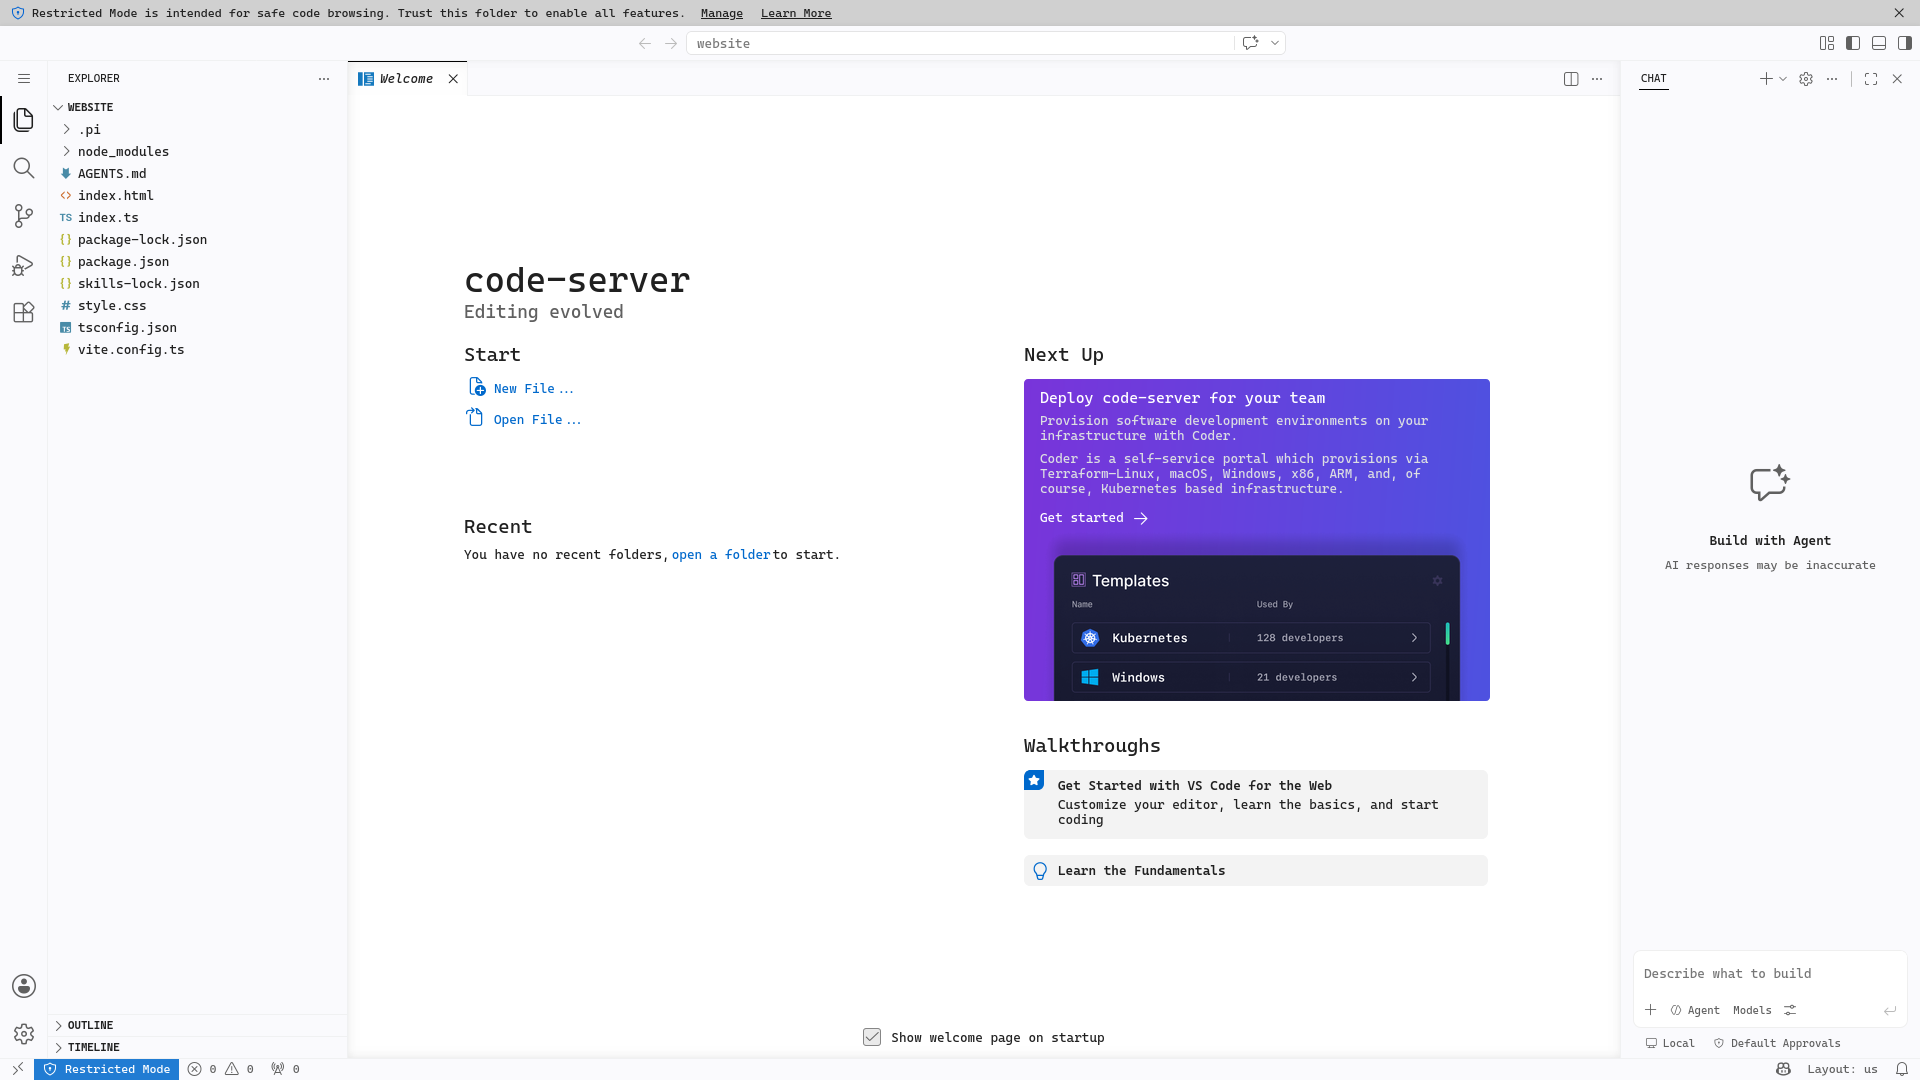
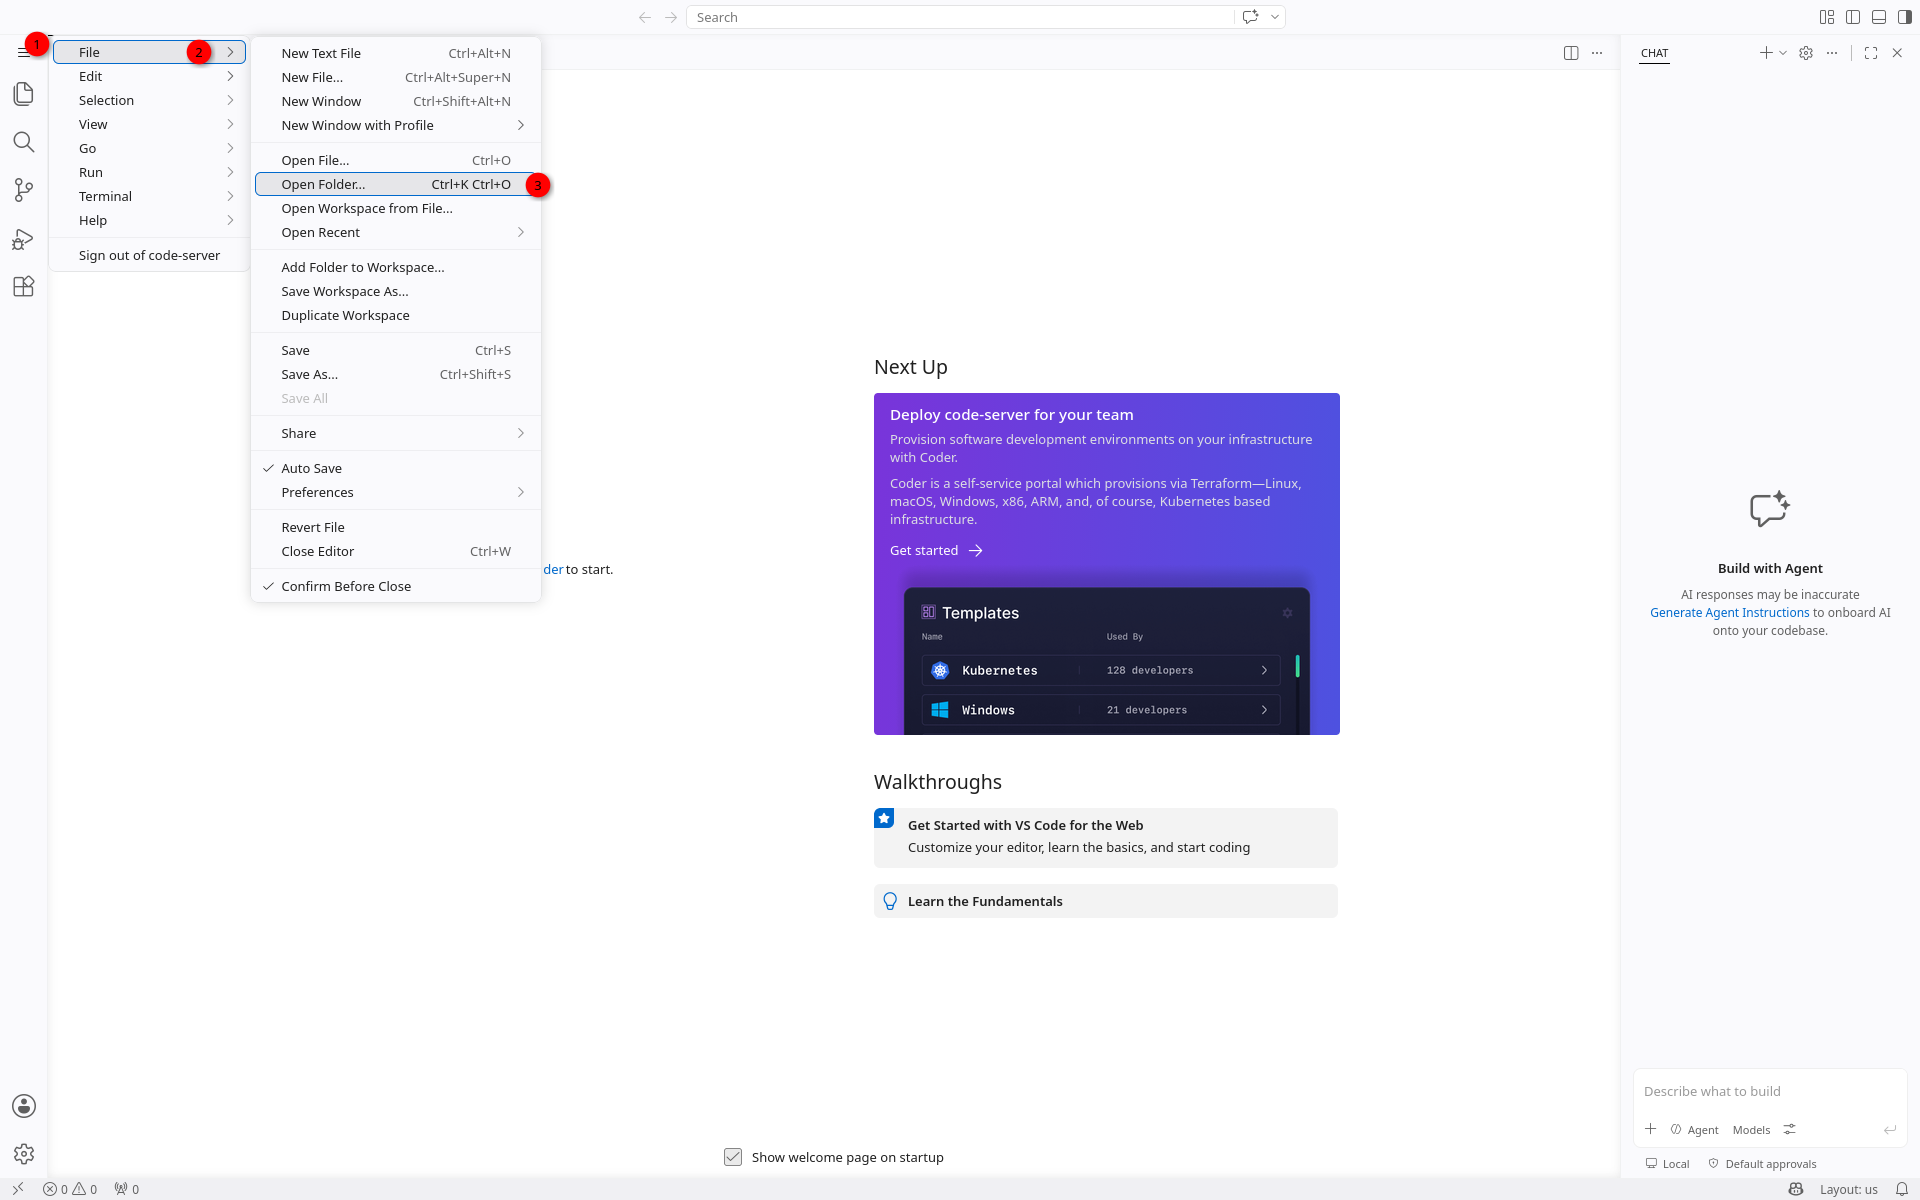
Update tutorials

diff --git a/web/src/content/tutorials/de/pi-dev.md b/web/src/content/tutorials/de/pi-dev.md
@@ -10,23 +10,24 @@ Pi bereits installiert.
 
 ## Im richtigen Projekt starten
 
-Wenn ihr auf eurem eigenen Computer arbeitet, öffnet ein Terminal im Projektordner und startet Pi:
+Wenn ihr auf eurem eigenen Computer arbeitet, öffnet ein Terminal im Projektordner und startet Pi (Alles nach `#` ist ein Kommentar und muss nicht eingegeben werden):
 
 ```sh
-cd pfad/zu/eurem-projekt
-pi
+cd pfad/zu/eurem-projekt # Change Directory - Ordner ändern - Hiermit navigiert ihr in den Ordner eures Projekts. Wenn ihr die Online-Entwicklungsumgebung nutzt, ist der Projektordner bereits geöffnet, und ihr könnt diesen Schritt überspringen.
+pi # Startet den Coding Agent pi.dev.
 ```
 
 Pi darf auf alles in diesem Ordner zugreifen. Startet ihn deshalb nicht in einem
 übergeordneten Ordner mit privaten oder fremden Dateien.
+
+Wenn ihr Pi beenden wollt, drückt `Strg`+`C`. Pi merkt sich den Gesprächskontext nur während der laufenden Sitzung. Wenn ihr Pi neu startet, beginnt es wieder mit einem leeren Kontext. Verwendet `pi resume`, um trotzdem den letzten Gesprächskontext zu laden.
 
 ## Bei bestehenden Projekten: Zuerst orientieren, dann ändern
 
 Lasst Pi vor der ersten Änderung die vorhandene `README.md`, die
 Projektstruktur und die verfügbaren Prüfbefehle untersuchen:
 
-> Lies die README und untersuche das Projekt. Erkläre mir kurz, wie es aufgebaut
-> ist und welche Befehle Änderungen prüfen. Ändere noch keine Dateien.
+> Lies die README und untersuche das Projekt. Erkläre mir kurz, wie es aufgebaut ist.
 
 Gebt danach einen überschaubaren Auftrag. Lasst Pi die Änderung selbst prüfen
 und bittet um eine kurze Zusammenfassung der betroffenen Dateien.
@@ -43,7 +44,7 @@ Wiederkehrende Regeln gehören in eine `AGENTS.md` im Projekt:
 - Halte API-Keys aus dem Repository.
 ```
 
-So müsst ihr wichtige Rahmenbedingungen nicht in jedem Prompt wiederholen.
+Ihr könnt auch Pi darum bitten, die Regeln in der `AGENTS.md` zu dokumentieren. So müsst ihr wichtige Rahmenbedingungen nicht in jedem Prompt wiederholen.
 
 ## Hackathon-Skills installieren
 
@@ -64,19 +65,9 @@ npx skills@latest add BenjaminDerProgrammierer/ars-26-hackathon \
 
 `npx` lädt das aktuelle `skills`-Werkzeug bei Bedarf automatisch. Der Befehl
 installiert die Skills nur für dieses Projekt unter `.pi/skills/` und legt eine
-`skills-lock.json` an. Ihr braucht dafür Node.js, `npm`, Git und Internetzugang;
-in der bereitgestellten Online-Entwicklungsumgebung ist alles vorhanden. Die
-Installation enthält Programme und Anweisungen, die der Agent ausführen darf.
-Installiert daher nur Skills aus Quellen, denen ihr vertraut.
+`skills-lock.json` an. Die Installation enthält Programme und Anweisungen, die der Agent ausführen darf.
 
-Prüft anschließend die Installation:
-
-```sh
-npx skills@latest list --agent pi
-```
-
-In der Ausgabe müssen `ars-dataset` und `hackathon-datasets` stehen. Startet Pi
-danach neu, damit es die neuen Skills sicher erkennt:
+Startet Pi danach neu, damit es die neuen Skills sicher erkennt:
 
 ```sh
 pi
@@ -146,3 +137,8 @@ des Exports den Leerzustand.
 
 Pi kann Arbeit beschleunigen, aber nicht entscheiden, ob eure Daten,
 Sicherheitsannahmen und Projektergebnisse korrekt sind. Prüft eure Demo selbst.
+
+## Als nächstes: Vibe Coding und Prompts
+
+Als nächstes lernt ihr, wie ihr eure Ideen in überprüfbare Schritte zerlegt und
+einen Coding Agent sinnvoll anleitet. Lest dazu das Tutorial „Vibe Coding und Prompts“.

diff --git a/web/src/content/tutorials/de/online-development-environment.md b/web/src/content/tutorials/de/online-development-environment.md
@@ -25,32 +25,43 @@ Ruft den Link bei „Code Server“ im Browser auf und gebt das Passwort ein.
 
 ## Schritt 2: Entwicklungsumgebung einrichten
 
-![Entwicklungsumgebung; untrusted](../assets/online-development-environment-2.png)
+Jetzt müsst ihr den Ordner öffnen, in dem ihr arbeiten wollt. Klickt dazu auf Drei Striche → File → Open Folder und wählt den Ordner `website` aus.
+
+![Entwicklungsumgebung; open file](../assets/online-development-environment-2.png)
+
+![Open File; ~](../assets/online-development-environment-3.png)
+
+![Open FIle; ~/website](../assets/online-development-environment-4.png)
 
 Als Nächstes müsst ihr dem offenen Ordner vertrauen. Klickt oben auf „Manage“
 und dann auf „Trust“.
 
-![Workspace Trust window](../assets/online-development-environment-3.png)
-
-![Entwicklungsumgebung; trusted](../assets/online-development-environment-4.png)
+![Workspace Trust window](../assets/online-development-environment-5.png)
 
 Öffnet nun über das horizontal geteilte Rechteck oben rechts ein Terminal.
 
+![Workspace Trust window](../assets/online-development-environment-6.png)
+
 Gebt `npm run dev` ein, um den Entwicklungsserver zu starten.
 
-![Terminal mit laufendem Entwicklungsserver](../assets/online-development-environment-5.png)
+![Terminal; npm run dev](../assets/online-development-environment-7.png)
 
 Öffnet den Link bei „Dev server“ aus euren Zugangsdaten, um die Webseite zu
 sehen, an der ihr gerade arbeitet.
 
-![Startseite der Webseite](../assets/online-development-environment-6.png)
+![Startseite der Webseite](../assets/online-development-environment-8.png)
 
 Öffnet über das Plus-Zeichen ein zweites Terminal, gebt `pi` ein und bestätigt,
 dass pi.dev auf den geöffneten Projektordner zugreifen darf.
 
-![Coding-Agent pi.dev](../assets/online-development-environment-7.png)
+![Coding-Agent pi.dev; Trust](../assets/online-development-environment-9.png)
+
+Fragt zum Beispiel nach, was die Dateien im Ordner `website` machen, und ihr bekommt eine Antwort von pi.dev.
+
+> Erkläre die Dateien in diesem Ordner.
+
+![Coding-Agent pi.dev; Erste Antwort](../assets/online-development-environment-10.png)
 
 ## Weitere Schritte
 
-Wie ihr den Agent sinnvoll steuert, erfahrt ihr im Tutorial
-[Mit pi.dev arbeiten](../pi-dev/).
+Wie ihr den Agent sinnvoll steuert, erfahrt ihr im nächsten Tutorial „Vibe Coding und Prompts“.
